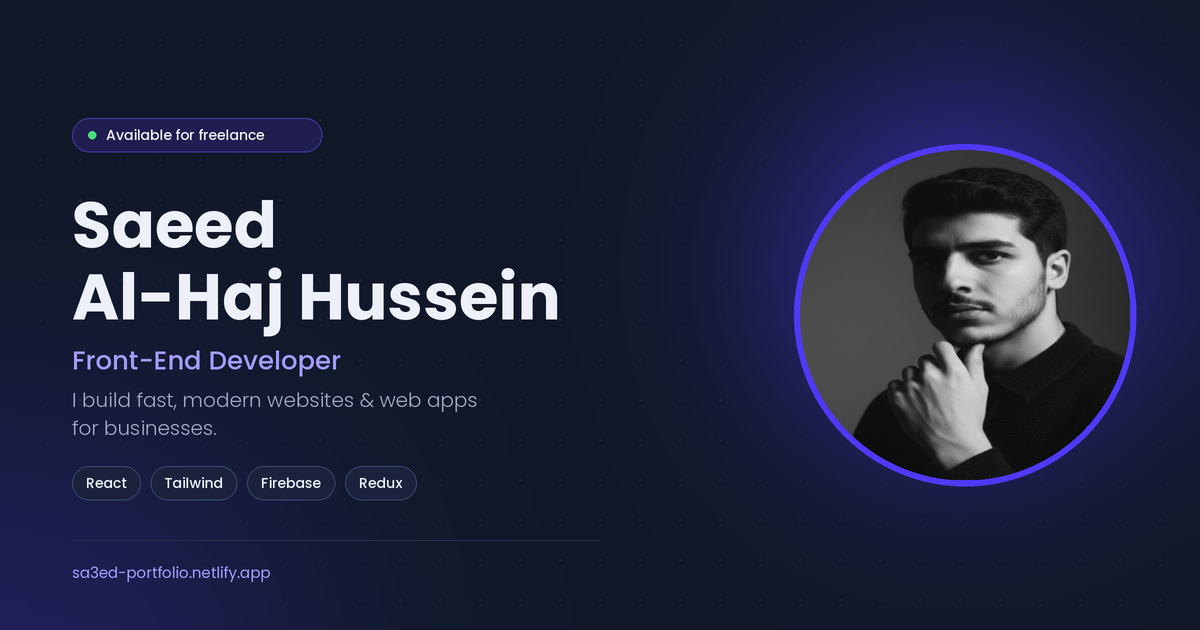
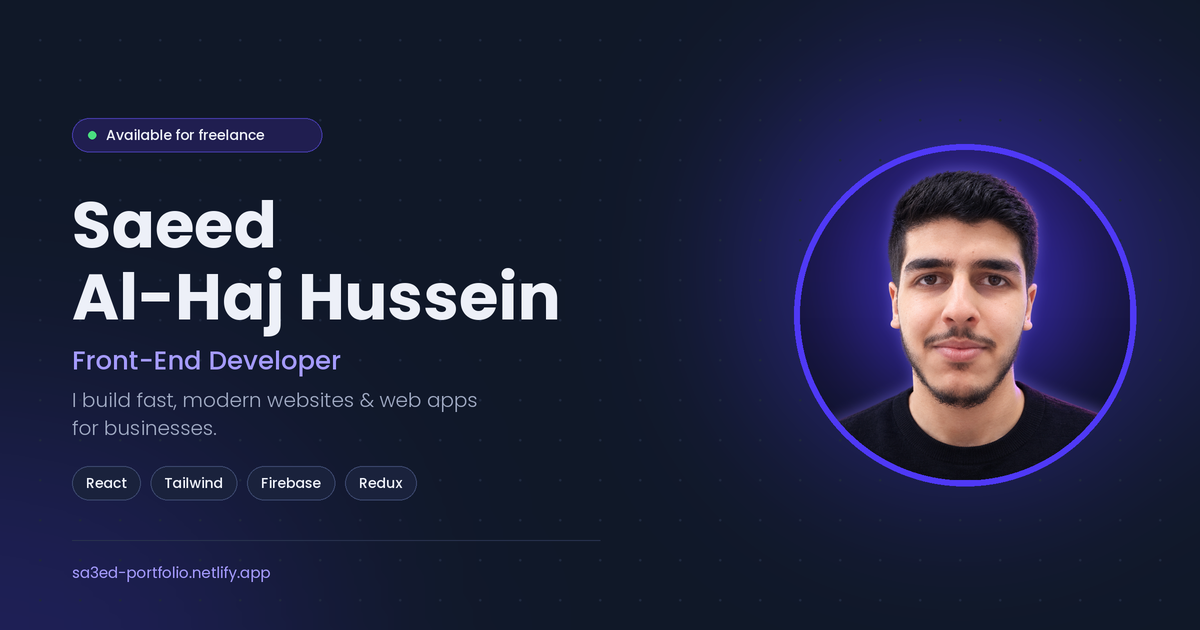
edit some previews images.

Changed region(s): [[0.6475, 0.2413, 0.9558, 0.754]]

diff --git a/src/Components/TheHome.jsx b/src/Components/TheHome.jsx
@@ -1,8 +1,29 @@
 import SocialLinks from "./SocialLinks";
-import MyProfile from "../assets/images/profile.png";
+import MyProfile from "../assets/images/profile.jpg";
 import myCV from "../assets/Sa3ed-CV.pdf";
 
-const techStack = ["React", "Tailwind", "Firebase", "Redux", "MUI"];
+const techStack = [
+  "React",
+  "Tailwind",
+  "Firebase",
+  "axios",
+  "Redux",
+  "emailjs",
+  "MUI",
+];
+
+// const techStack2 = [
+//   {},
+//   {},
+//   {},
+//   "React",
+//   "Tailwind",
+//   "Firebase",
+//   "axios",
+//   "Redux",
+//   "emailjs",
+//   "MUI",
+// ];
 
 const TheHome = () => {
   return (

diff --git a/src/Components/SocialLinks.jsx b/src/Components/SocialLinks.jsx
@@ -27,7 +27,7 @@ const SocialLinks = () => {
           rel="noopener noreferrer"
           aria-label={link.name}
           title={link.name}
-          className="icon-btn flex items-center justify-center w-[2.8rem] h-[2.8rem] rounded-[1.4rem]"
+          className="icon-btn flex items-center justify-center w-10 h-10 rounded-full"
         >
           <link.Icon className="icon" />
         </a>

diff --git a/src/App.css b/src/App.css
@@ -79,8 +79,8 @@ h1 {
 
     .the-home .btn,
     .the-contact .btn {
-      font-size: 1.1rem;
-      padding: 0.8rem 1.4rem;
+      font-size: 1rem;
+      padding: 0.6rem 1.3rem;
       cursor: pointer;
       font-weight: bold;
       color: var(--main-color-light);
